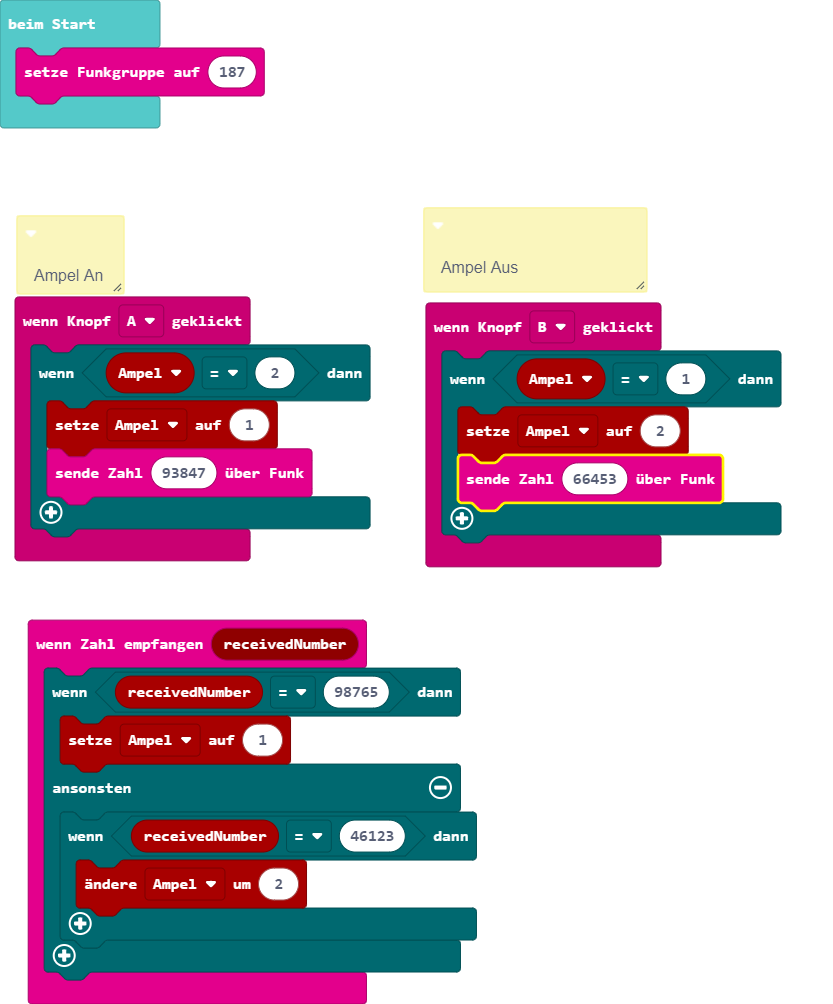
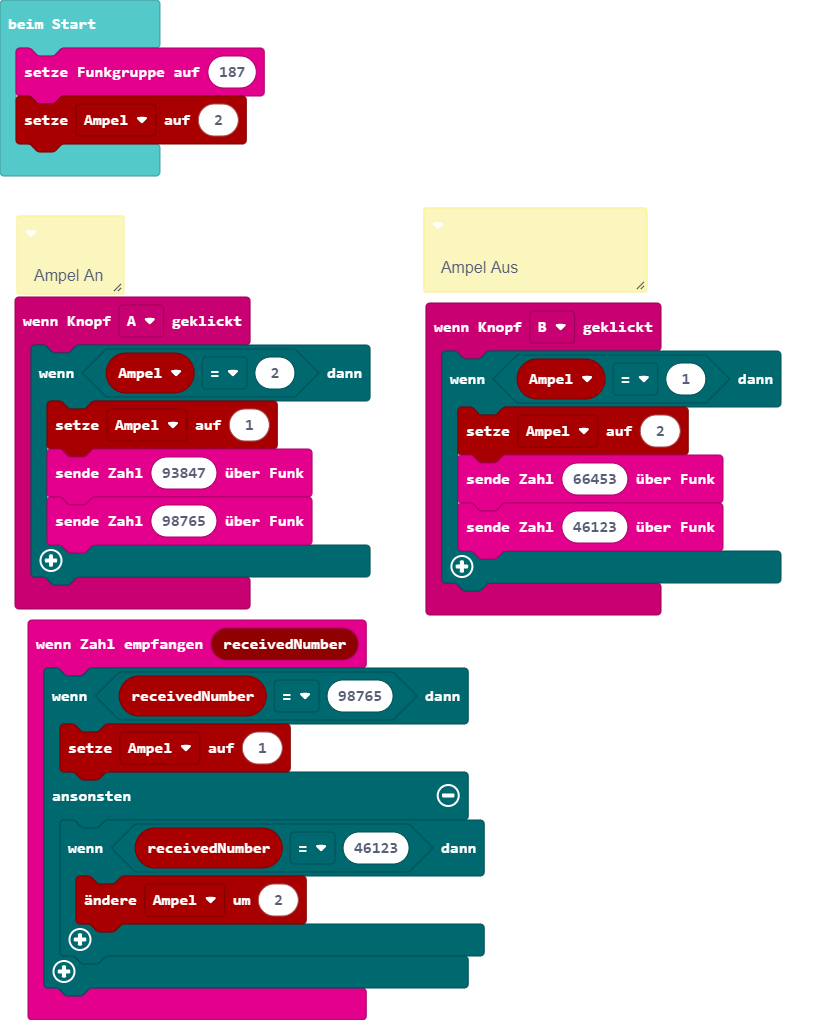
Aktualisiere main.blocks, main.ts

diff --git a/main.ts b/main.ts
@@ -17,13 +17,16 @@ input.onButtonPressed(Button.A, function () {
     if (Ampel == 2) {
         Ampel = 1
         radio.sendNumber(93847)
+        radio.sendNumber(98765)
     }
 })
 input.onButtonPressed(Button.B, function () {
     if (Ampel == 1) {
         Ampel = 2
         radio.sendNumber(66453)
+        radio.sendNumber(46123)
     }
 })
 let Ampel = 0
 radio.setGroup(187)
+Ampel = 2
